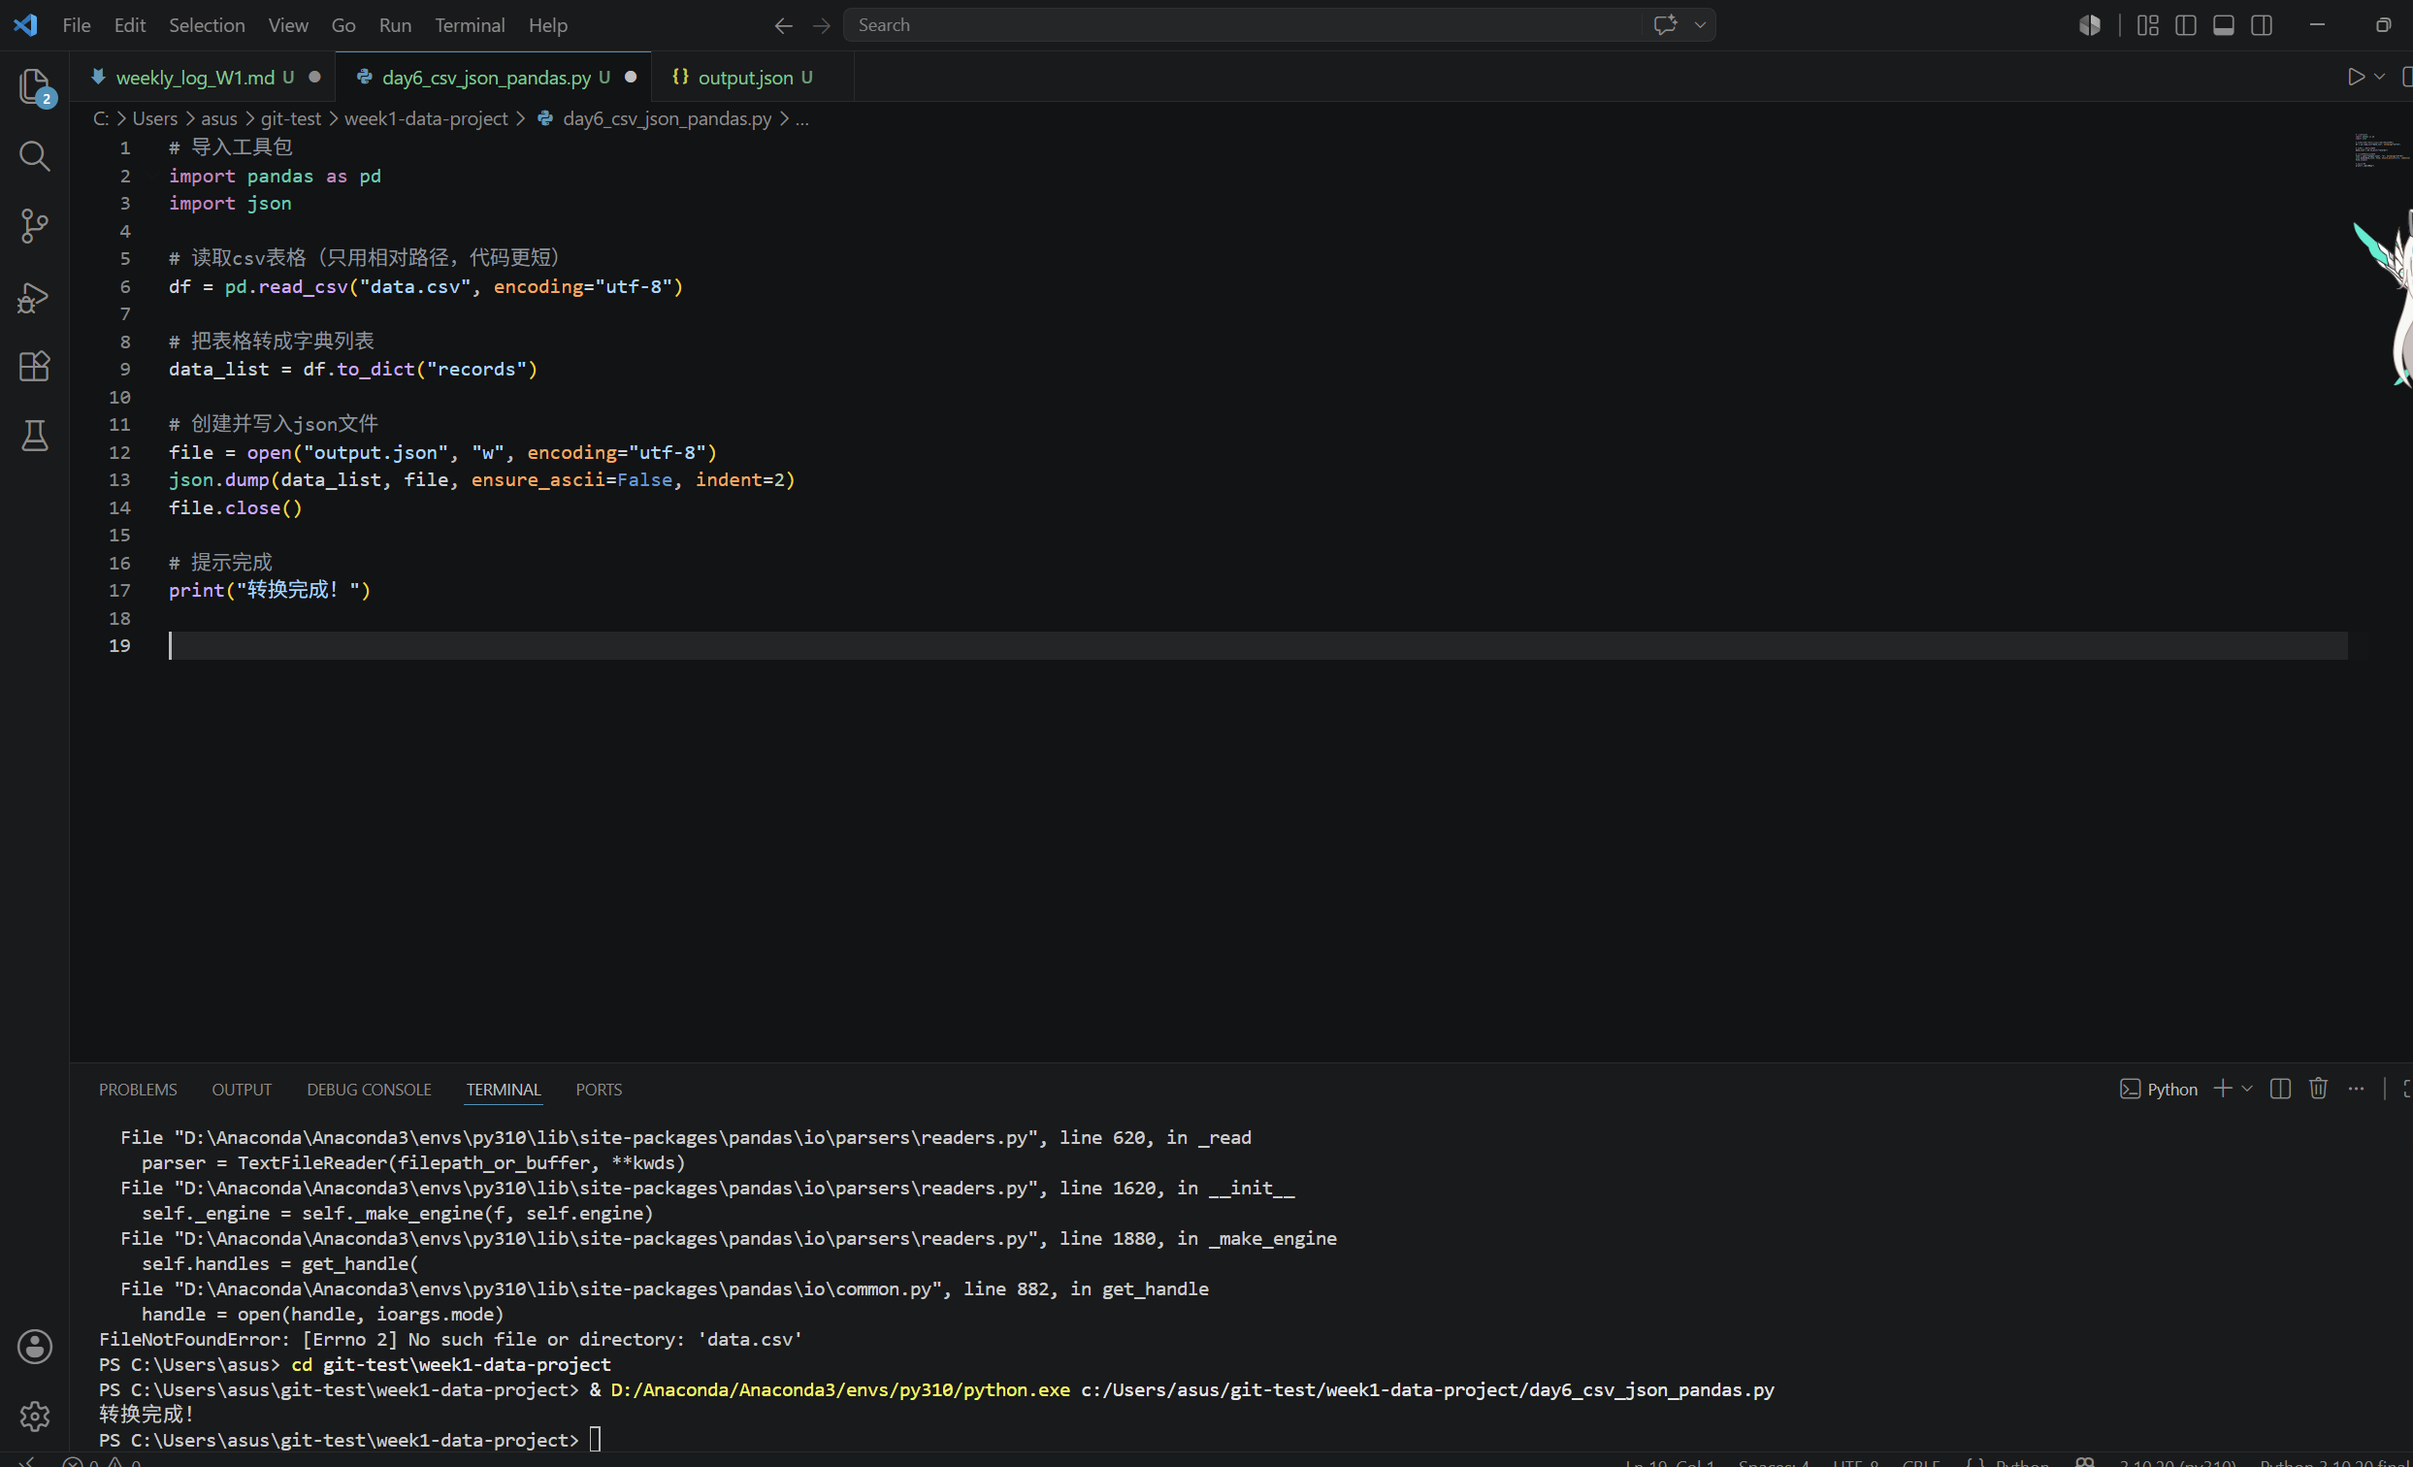
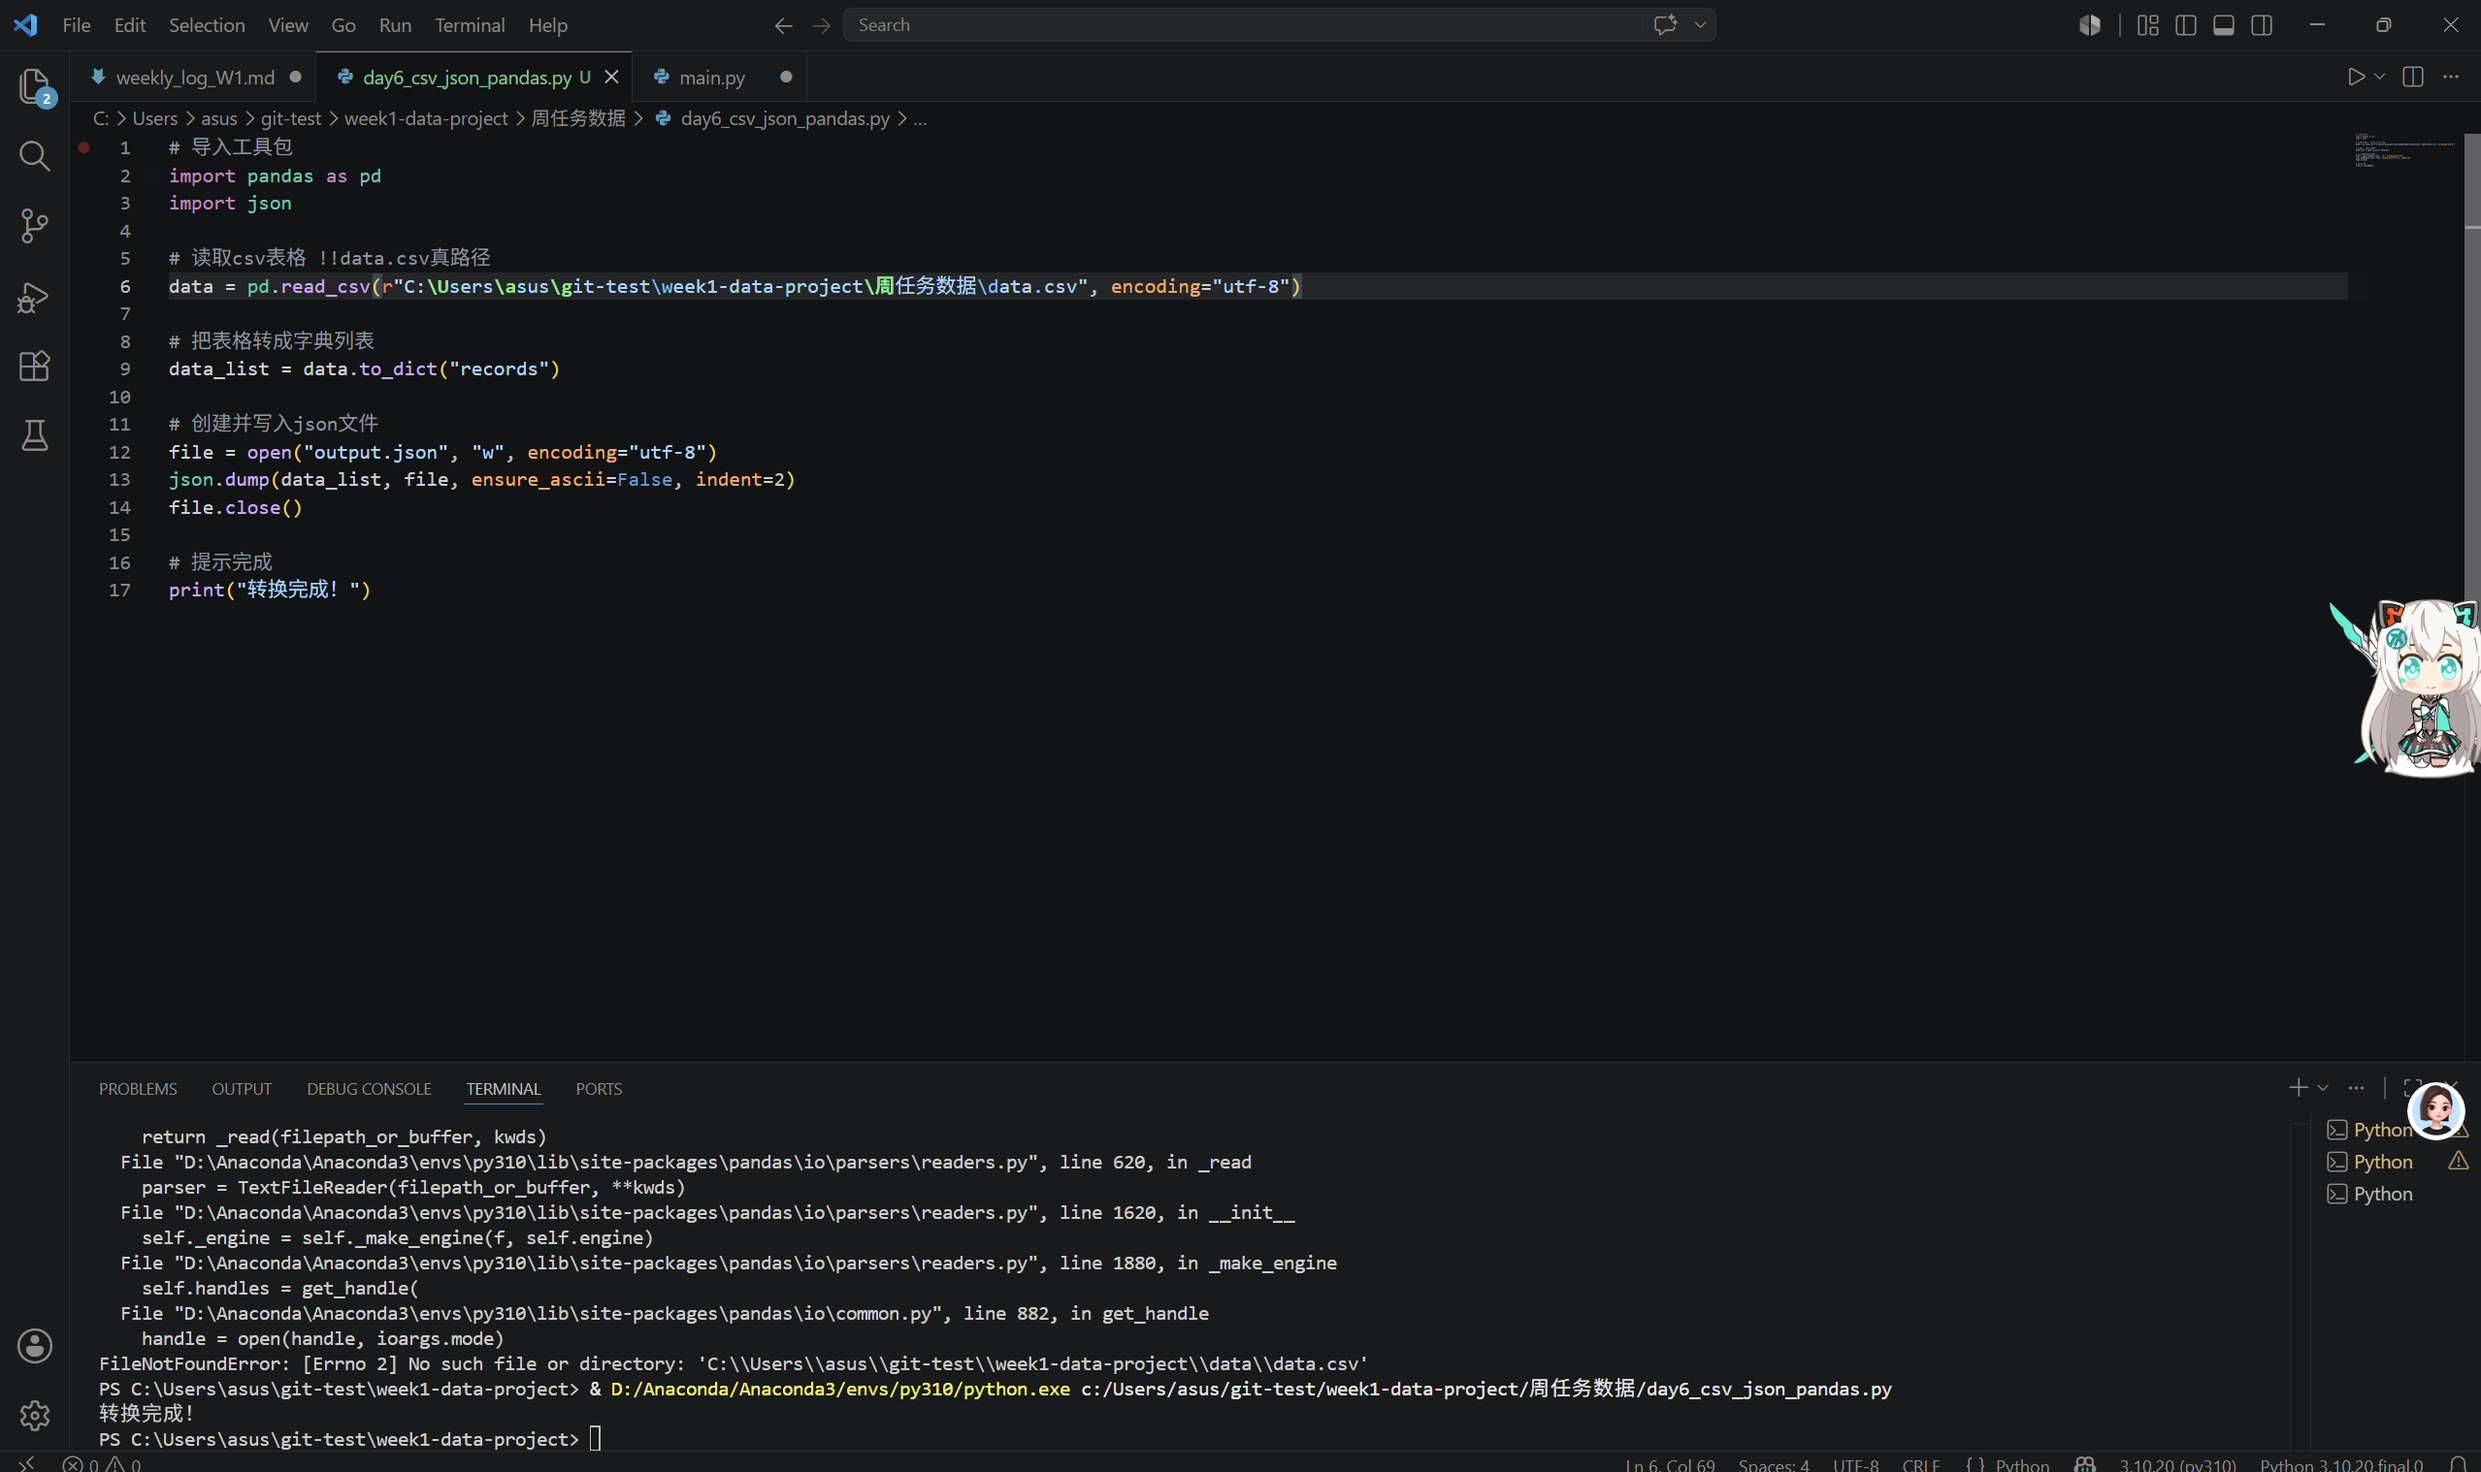
feat: 更新第一周实训日志

diff --git a/周任务数据/day6_csv_json_pandas.py b/周任务数据/day6_csv_json_pandas.py
@@ -1,0 +1,17 @@
+# 导入工具包
+import pandas as pd
+import json
+
+# 读取csv表格 !!data.csv真路径
+data = pd.read_csv(r"C:\Users\asus\git-test\week1-data-project\周任务数据\data.csv", encoding="utf-8")
+
+# 把表格转成字典列表
+data_list = data.to_dict("records")
+
+# 创建并写入json文件
+file = open("output.json", "w", encoding="utf-8")
+json.dump(data_list, file, ensure_ascii=False, indent=2)
+file.close()
+
+# 提示完成
+print("转换完成！")

diff --git a/周任务数据/day5_llm_api_test.py b/周任务数据/day5_llm_api_test.py
@@ -1,0 +1,11 @@
+from zhipuai import ZhipuAI
+
+# 填入你本地保存的完整API Key
+client = ZhipuAI(api_key="个人API Key")
+
+response = client.chat.completions.create(
+    model="glm-4-flash",
+    messages=[{"role": "user", "content": "简单介绍PyTorch是什么"}]
+)
+print("大模型返回回答：")
+print(response.choices[0].message.content)
